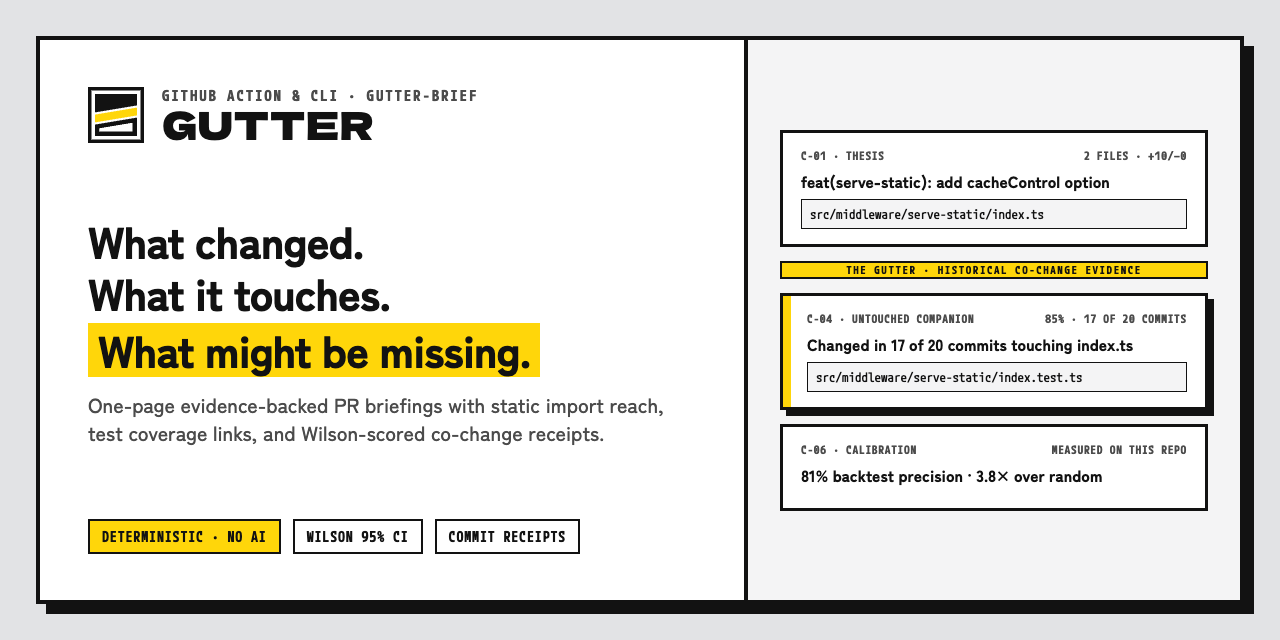
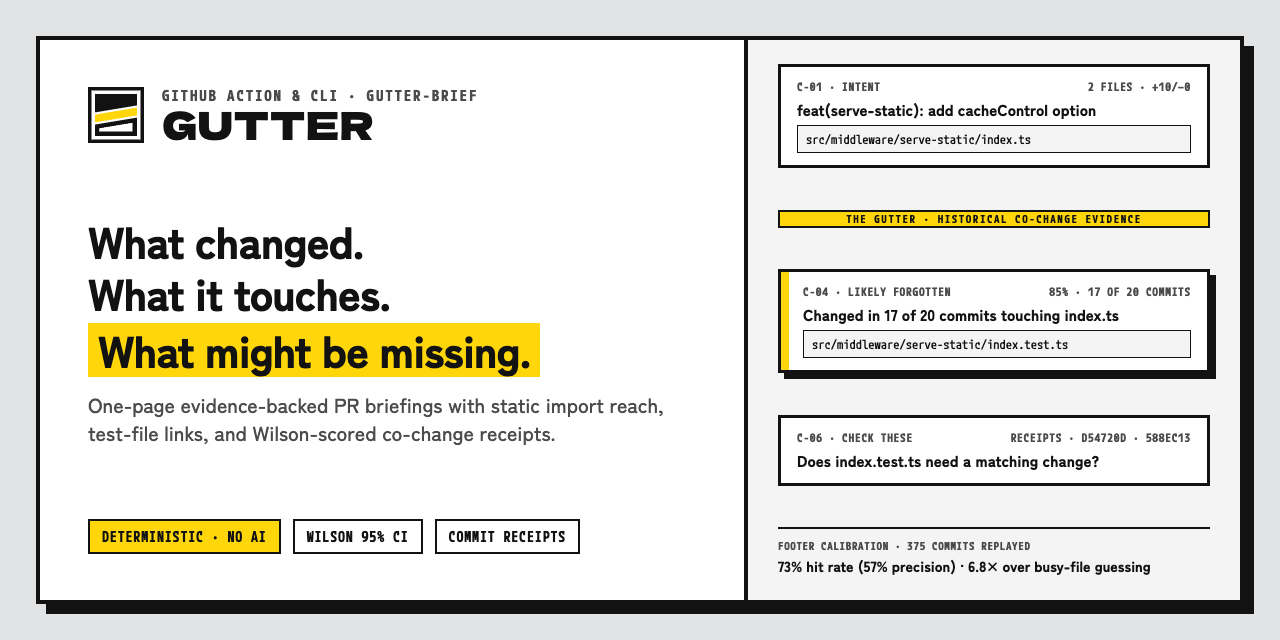
fix(brand): align social card stats and panel labels with real Hono example

Changed region(s): [[0.5938, 0.0938, 0.9688, 0.8125], [0.5938, 0.8438, 0.9062, 0.9062], [0.0938, 0.6562, 0.4688, 0.6875]]

diff --git a/scripts/generate-brand-assets.ts b/scripts/generate-brand-assets.ts
@@ -1,14 +1,13 @@
 /**
- * Deterministic generator for `docs/brand/*` assets.
+ * Generator for `docs/brand/*` assets.
  *
  * Usage:
  *   node --experimental-strip-types scripts/generate-brand-assets.ts
  *
- * Requires Playwright (`npm i -D playwright`, `npx playwright`, or `NODE_PATH`).
+ * Requires Playwright (`npm i -D playwright` or `NODE_PATH` pointing to an installed `playwright` package).
  */
-import { existsSync, mkdirSync, readdirSync, writeFileSync } from 'node:fs';
+import { existsSync, mkdirSync, writeFileSync } from 'node:fs';
 import { createRequire } from 'node:module';
-import { homedir } from 'node:os';
 import { delimiter, dirname, join, resolve } from 'node:path';
 import { fileURLToPath } from 'node:url';
 
@@ -33,15 +32,9 @@ interface PlaywrightModule {
 
 function loadPlaywright(): PlaywrightModule {
   const nodePathEntries = process.env.NODE_PATH ? process.env.NODE_PATH.split(delimiter).filter(Boolean) : [];
-  const npxCacheDir = join(homedir(), '.npm', '_npx');
-  const npxEntries = existsSync(npxCacheDir)
-    ? readdirSync(npxCacheDir).map((entry) => join(npxCacheDir, entry, 'node_modules'))
-    : [];
-
   const anchors = [
     join(ROOT_DIR, 'package.json'),
     ...nodePathEntries.flatMap((p) => [join(p, 'playwright', 'package.json'), join(p, '..', 'package.json')]),
-    ...npxEntries.map((p) => join(p, 'playwright', 'package.json')),
   ];
   for (const anchor of anchors) {
     if (!existsSync(anchor)) continue;
@@ -220,20 +213,20 @@ export function buildSocialCardHtml(): string {
   }
   .right {
     background: #f4f4f5;
-    padding: 28px 32px;
+    padding: 24px 30px;
     display: flex;
     flex-direction: column;
-    justify-content: center;
-    gap: 14px;
+    justify-content: space-between;
+    gap: 10px;
   }
   .cut {
     background: #ffffff;
     border: 3px solid #121212;
-    padding: 15px 18px;
+    padding: 12px 16px;
   }
   .cut.alert {
     box-shadow: inset 8px 0 0 #ffd60a, 6px 6px 0 #121212;
-    padding-left: 24px;
+    padding-left: 22px;
   }
   .cut-tag {
     font-family: "M PLUS 1 Code", monospace;
@@ -242,23 +235,26 @@ export function buildSocialCardHtml(): string {
     text-transform: uppercase;
     letter-spacing: 0.06em;
     color: #4b4b4b;
-    margin-bottom: 6px;
+    margin-bottom: 4px;
     display: flex;
     justify-content: space-between;
     white-space: nowrap;
   }
   .cut-title {
-    font-size: 16px;
+    font-size: 15.5px;
     font-weight: 900;
     color: #121212;
-    margin-bottom: 6px;
+    margin-bottom: 5px;
+  }
+  .cut-title:last-child {
+    margin-bottom: 0;
   }
   .cut-code {
     font-family: "M PLUS 1 Code", monospace;
-    font-size: 13px;
+    font-size: 12.5px;
     color: #121212;
     background: #f4f4f5;
-    padding: 6px 8px;
+    padding: 5px 8px;
     border: 1.5px solid #121212;
   }
   .gutter-slash {
@@ -274,6 +270,29 @@ export function buildSocialCardHtml(): string {
     letter-spacing: 0.14em;
     text-transform: uppercase;
   }
+  .colophon-bar {
+    border-top: 2.5px solid #121212;
+    padding-top: 10px;
+    font-family: "M PLUS 1 Code", monospace;
+    font-size: 12px;
+    color: #121212;
+    display: flex;
+    flex-direction: column;
+    gap: 2px;
+  }
+  .colophon-bar .label {
+    font-size: 11px;
+    font-weight: 700;
+    text-transform: uppercase;
+    letter-spacing: 0.06em;
+    color: #4b4b4b;
+  }
+  .colophon-bar .metric {
+    font-family: "Zen Kaku Gothic New", "Helvetica Neue", Arial, sans-serif;
+    font-size: 14.5px;
+    font-weight: 900;
+    color: #121212;
+  }
 </style>
 </head>
 <body>
@@ -288,7 +307,7 @@ export function buildSocialCardHtml(): string {
       </div>
       <div>
         <div class="headline">What changed.<br>What it touches.<br><mark>What might be missing.</mark></div>
-        <div class="sub">One-page evidence-backed PR briefings with static import reach, test coverage links, and Wilson-scored co-change receipts.</div>
+        <div class="sub">One-page evidence-backed PR briefings with static import reach, test-file links, and Wilson-scored co-change receipts.</div>
       </div>
       <div class="pills">
         <span class="pill accent">Deterministic · No AI</span>
@@ -298,19 +317,23 @@ export function buildSocialCardHtml(): string {
     </div>
     <div class="right">
       <div class="cut">
-        <div class="cut-tag"><span>C-01 · THESIS</span><span>2 FILES · +10/−0</span></div>
+        <div class="cut-tag"><span>C-01 · INTENT</span><span>2 FILES · +10/−0</span></div>
         <div class="cut-title">feat(serve-static): add cacheControl option</div>
         <div class="cut-code">src/middleware/serve-static/index.ts</div>
       </div>
       <div class="gutter-slash">THE GUTTER · HISTORICAL CO-CHANGE EVIDENCE</div>
       <div class="cut alert">
-        <div class="cut-tag"><span>C-04 · UNTOUCHED COMPANION</span><span>85% · 17 OF 20 COMMITS</span></div>
+        <div class="cut-tag"><span>C-04 · LIKELY FORGOTTEN</span><span>85% · 17 OF 20 COMMITS</span></div>
         <div class="cut-title">Changed in 17 of 20 commits touching index.ts</div>
         <div class="cut-code">src/middleware/serve-static/index.test.ts</div>
       </div>
       <div class="cut">
-        <div class="cut-tag"><span>C-06 · CALIBRATION</span><span>MEASURED ON THIS REPO</span></div>
-        <div class="cut-title">81% backtest precision · 3.8× over random</div>
+        <div class="cut-tag"><span>C-06 · CHECK THESE</span><span>RECEIPTS · d54720d · 588ec13</span></div>
+        <div class="cut-title">Does index.test.ts need a matching change?</div>
+      </div>
+      <div class="colophon-bar">
+        <span class="label">Footer calibration · 375 commits replayed</span>
+        <span class="metric">73% hit rate (57% precision) · 6.8× over busy-file guessing</span>
       </div>
     </div>
   </div>

diff --git a/docs/brand/README.md b/docs/brand/README.md
@@ -35,7 +35,7 @@ Matches `--f-ink`, `--f-panel`, and `--f-marker` in [`src/render/frame12-tokens.
 
 ## Regenerating Assets
 
-All vector marks, raster exports, and the `1280×640` social card are generated deterministically from [`scripts/generate-brand-assets.ts`](../../scripts/generate-brand-assets.ts):
+All vector marks, raster exports, and the `1280×640` social card are generated from [`scripts/generate-brand-assets.ts`](../../scripts/generate-brand-assets.ts):
 
 ```bash
 node --experimental-strip-types scripts/generate-brand-assets.ts
